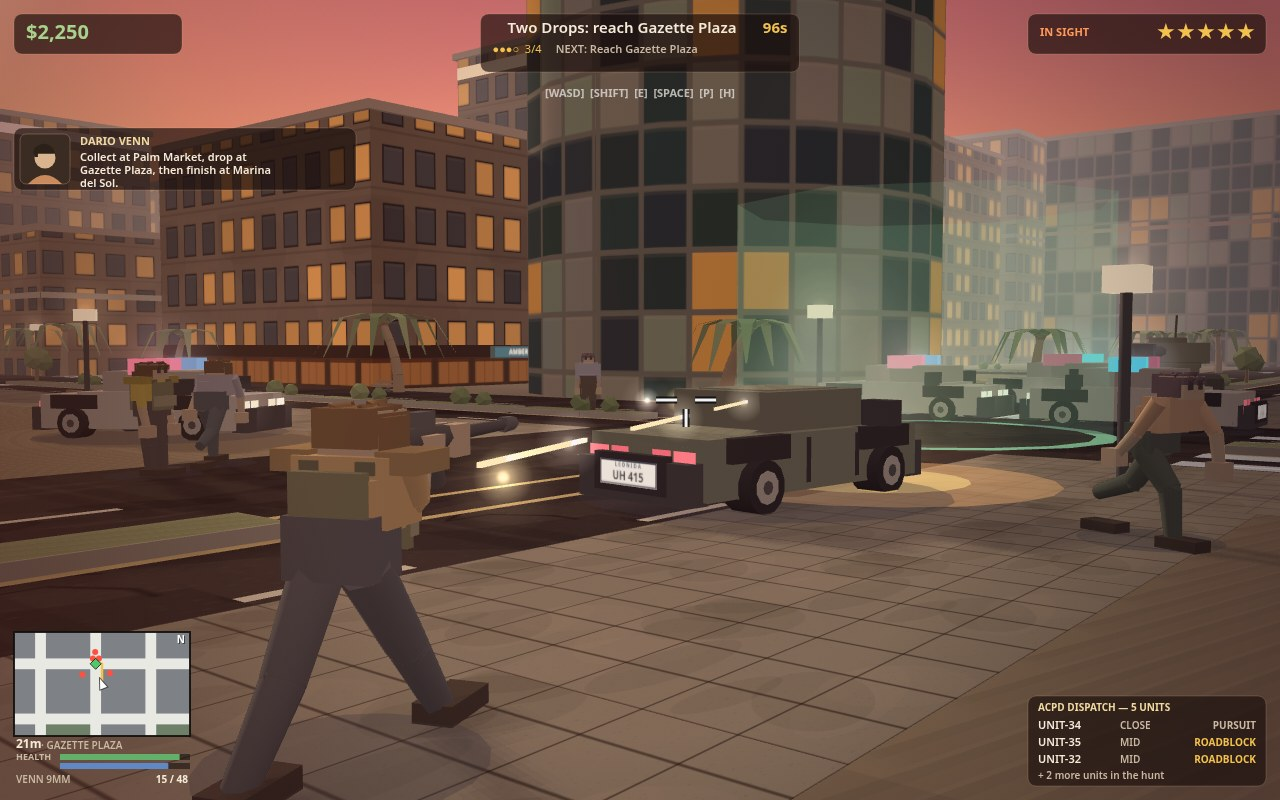
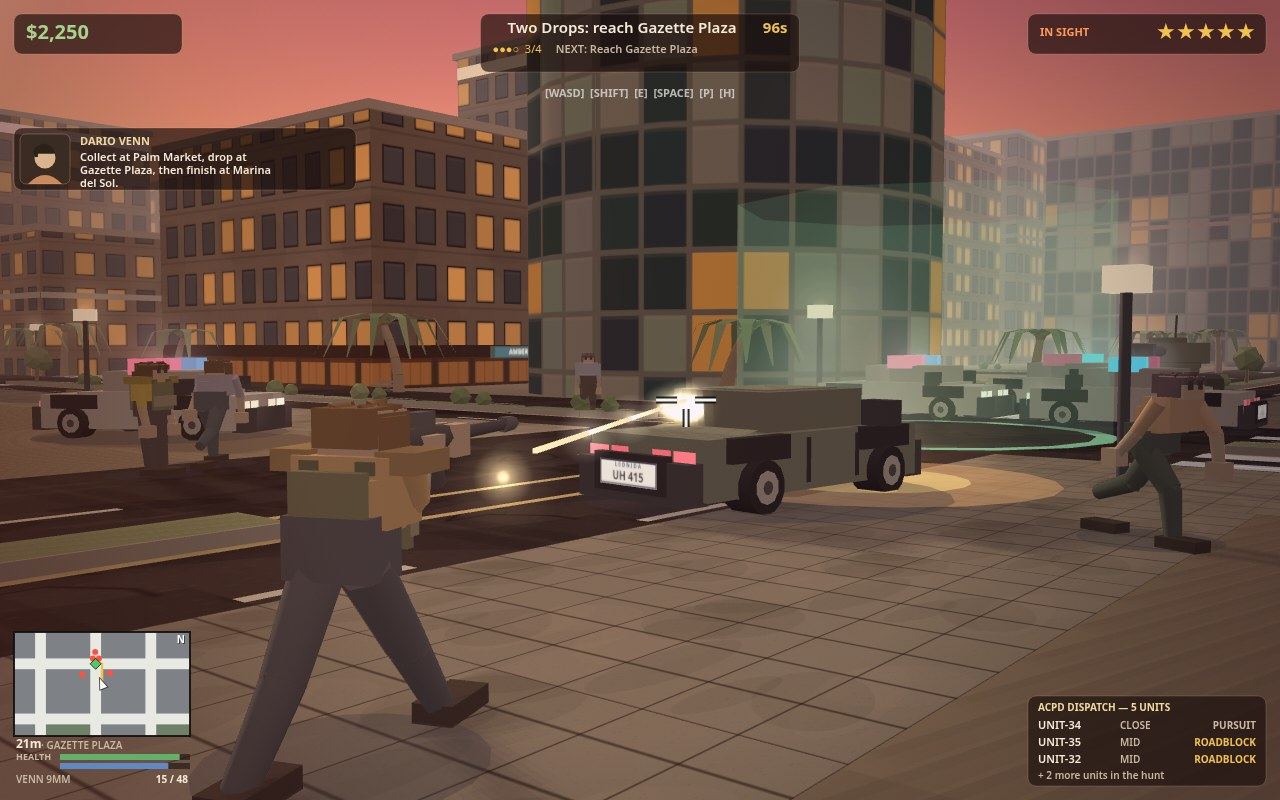
gta6-01 REAL-3D Phase 4 (shots.js mission staging only; view3d.js/hud.js/qa/measure.mjs untouched, all sim modules byte-identical): fixes AIM COHERENCE in the mission frame — the Phase 3 lesson that projection passing was not perception passing. Pixel inspection of the Phase 3 capture found two defe

Changed region(s): [[0.375, 0.4688, 0.5938, 0.5938]]

diff --git a/game/src/shots.js b/game/src/shots.js
@@ -407,22 +407,64 @@ export function applyShot(game, name, step) {
     game.crewMate = { id: 'dex', name: 'DEX RUIZ', color: '#e8c832', x: 934, y: 1112, angle: -0.4, walkPhase: 0.6, pose: 'stand' };
     game.projectiles = [];
     game.zones = [{ kind: 'fire', x: 1012, y: 1058, r: 24, until: game.nowMs + 60000, dps: 26 }];
-    // Tracers in flight along the aim line and the muzzle flash, frozen at
-    // the capture tick (the pre-directive frame's proven combat read).
-    // Phase 3: the last tracer reaches 78 of the ≈88 units to the sedan,
-    // still exactly on the aim line.
-    game.bullets = [26, 52, 78].map((d) => ({
-      x: game.player.x + Math.cos(a) * d, y: game.player.y + Math.sin(a) * d, angle: a, life: 0.5,
+    // Phase 4 AIM COHERENCE (the Phase 3 lesson: projection passing was
+    // not perception passing). Two defects, both found by pixel
+    // inspection of the Phase 3 capture, not by the measure:
+    // (1) The Phase 3 train ran from the player's CENTRE along the
+    // facing angle: in screen space that line passes ~16 px below the
+    // muzzle→impact line, and its last tracer (78 of the ≈88 units to
+    // the sedan) projected ~58 px PAST the reticle as a separate bright
+    // bar — the eye took it, not the sparks, for the shot's end.
+    // (2) The Phase 3 impact point (992.3, 1070) sits on the sedan's FAR
+    // flank: the reticle ray reaches it only by passing through the
+    // cabin, so its spark glows are OCCLUDED by the glasshouse at the
+    // cross — three faint dots spread ±47 px, nothing on the centre.
+    // The fix stages the shot's actual first contact with the car: the
+    // point where the reticle ray strikes the cabin's rear glass. It is
+    // the Phase 3 impact slid TOWARD THE CAMERA along that same ray —
+    // 18 units for the sparks (renderer height z 10.5: they clear the
+    // cabin rear face, L −7.6, by ~1.4 units and project 8 px below the
+    // cross, their glow discs overlapping it) and 19.5 units for the
+    // final tracer (renderer height z 11.5, one unit higher, so the
+    // extra slide puts its glow exactly ON the cross, delta ≈0.1 px).
+    // The train flies the REAL shot line from the gun tip (figure build:
+    // lean 1.5 + 15.2 forward, +0.28 lateral — the point qa/measure.mjs
+    // mirrors as the muzzle) to that contact point in four burst steps
+    // (t = 0.27 / 0.51 / 0.75 / 1.0 of the 64.3-unit segment): one
+    // straight screen line, muzzle flash → tracers → impact on the cross.
+    const flank = { x: 992.3, y: 1070 };
+    const camX = game.player.x - Math.cos(a) * 40 - Math.sin(a) * 26;
+    const camY = game.player.y - Math.sin(a) * 40 + Math.cos(a) * 26;
+    const rayX = flank.x - camX, rayY = flank.y - camY;
+    const rayL = Math.hypot(rayX, rayY);
+    const slide = (k) => ({ x: flank.x - (rayX / rayL) * k, y: flank.y - (rayY / rayL) * k });
+    const impact = slide(18);
+    const bulletEnd = slide(19.5);
+    const muzX = game.player.x + Math.cos(a) * 16.7 - Math.sin(a) * 0.28;
+    const muzY = game.player.y + Math.sin(a) * 16.7 + Math.cos(a) * 0.28;
+    const segA = Math.atan2(bulletEnd.y - muzY, bulletEnd.x - muzX);
+    game.bullets = [0.27, 0.51, 0.75, 1].map((t) => ({
+      x: muzX + (bulletEnd.x - muzX) * t, y: muzY + (bulletEnd.y - muzY) * t, angle: segA, life: 0.5,
     }));
     // Hit feedback: muzzle flash at the gun, impact sparks + flash on the
-    // struck sedan's flank, damage smoke climbing off it, and the tank's
-    // muzzle smoke at its barrel tip (turret traversed to 3.6).
+    // struck sedan, damage smoke climbing off it, and the tank's muzzle
+    // smoke at its barrel tip (turret traversed to 3.6).
+    // Phase 4: the impact flash is a TIGHT stack of nine sparks within
+    // ±1.8 units of the contact point (offsets sum to zero, so the
+    // measure's centroid is the contact point itself) — their fixed-
+    // radius glows overlap into one bright core on the cross instead of
+    // three isolated dots. Palette unchanged.
+    const sparkOff = [[1.2, 0.6], [-1.2, -0.6], [0.6, -1.2], [-0.6, 1.2], [1.8, 1.4], [-1.8, -1.4], [0, 0], [-1.5, 1.0], [1.5, -1.0]];
+    const sparkCols = ['#f2c14e', '#ffd76a', '#fff3c4'];
+    const sparkLife = [0.4, 0.32, 0.45, 0.38, 0.42, 0.34, 0.44, 0.36, 0.41];
+    const sparks = sparkOff.map((o, i) => ({
+      x: impact.x + o[0], y: impact.y + o[1], vx: 0, vy: 0,
+      life: sparkLife[i], maxLife: sparkLife[i], color: sparkCols[i % 3], size: 2.8 + (i % 4) * 0.5, drag: 0,
+    }));
     const mx = game.player.x + Math.cos(a) * 16, my = game.player.y + Math.sin(a) * 16;
     game.fx.particles = [
       { x: mx, y: my, vx: 0, vy: 0, life: 0.07, maxLife: 0.07, color: '#ffd76a', size: 5.5, drag: 0 },
-      { x: 991, y: 1070, vx: 0, vy: 0, life: 0.4, maxLife: 0.4, color: '#f2c14e', size: 3.4, drag: 0 },
-      { x: 997, y: 1066, vx: 0, vy: 0, life: 0.32, maxLife: 0.32, color: '#ffd76a', size: 2.8, drag: 0 },
-      { x: 989, y: 1074, vx: 0, vy: 0, life: 0.45, maxLife: 0.45, color: '#fff3c4', size: 4.2, drag: 0 },
+      ...sparks,
       { x: 1001, y: 1066, vx: 0, vy: 0, life: 1.0, maxLife: 1.0, color: 'rgba(120,120,125,0.6)', size: 7, drag: 0 },
       { x: 1013, y: 1058, vx: 0, vy: 0, life: 0.9, maxLife: 0.9, color: 'rgba(120,120,125,0.5)', size: 5.5, drag: 0 },
       { x: 986, y: 834, vx: 0, vy: 0, life: 0.8, maxLife: 1.0, color: 'rgba(120,120,125,0.55)', size: 6.5, drag: 0 },
